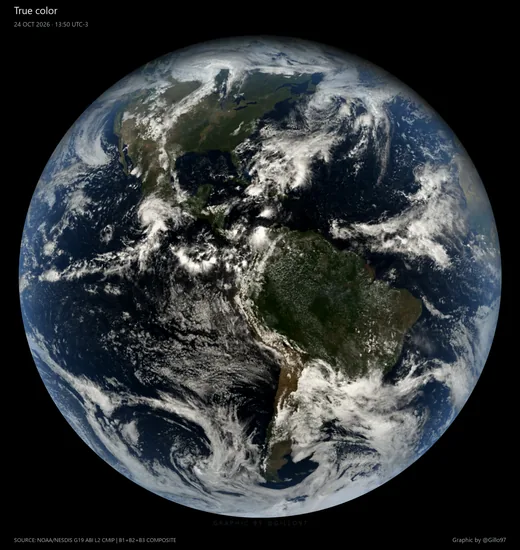
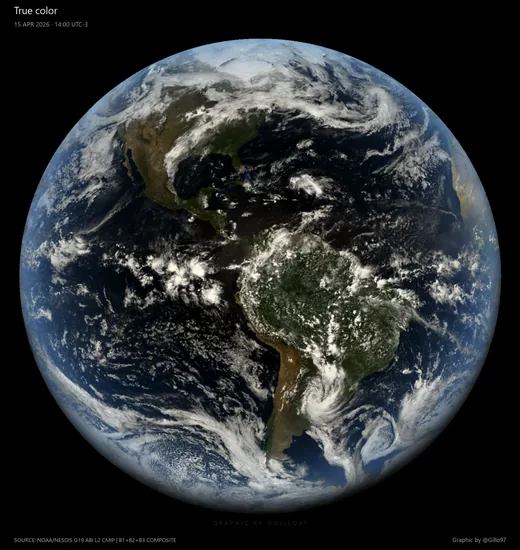
feat: expose the full captured limb in the true-color poster
radio_visible() cortaba el disco en 73.3 grados cuando el limite visible real del geoestacionario esta en 81.3: quedaba afuera 6.1 por ciento del area. Se agrega el parametro limbo con 'completo' (--recorte 1.0) por defecto y 'recortado' para el comportamiento anterior.

Se regenera la muestra WebP del producto con el disco completo.

diff --git a/app/api/catalog.py b/app/api/catalog.py
@@ -114,6 +114,17 @@ PRODUCTS: list[Product] = [
                 ],
                 help="el disco nativo es la perspectiva geoestacionaria real, sin perder el limbo",
             ),
+            ParamSpec(
+                name="limbo",
+                label="Limbo",
+                kind="select",
+                default="completo",
+                options=[
+                    ParamOption(value="completo", label="Completo: todo el disco captado"),
+                    ParamOption(value="recortado", label="Recortado: sin la franja estirada"),
+                ],
+                help="el script recorta por defecto hasta 73.3 grados; el limite real del satelite es 81.3",
+            ),
             ParamSpec(name="ventana", label="Ventana temporal", kind="date-range", default=_rango()),
             ParamSpec(name="resolucion", label="Resolucion", kind="select", default="2000", options=_RESOLUCIONES),
             ParamSpec(

diff --git a/app/tools/previews.py b/app/tools/previews.py
@@ -24,7 +24,7 @@ CALIDAD = 82
 # Render de referencia por producto. `None` = no hay muestra disponible.
 FUENTES: dict[str, Path | None] = {
     "goes_c13": CACHE / "625bac70faf5" / "frames" / "cuadro_001.png",
-    "goes_truecolor": CACHE / "b4a59b896798" / "truecolor_2026-10-24T1650.png",
+    "goes_truecolor": CACHE / "d2b759e57810" / "truecolor_2026-04-15T1700.png",
     "mur_sst": SALIDAS / "frames_mur_globo_2025-01-01T0000_94f_2711px" / "cuadro_001.png",
     "mur_realista": CACHE / "70d167e92153" / "mur_realista_1400px.png",
     "precipitacion_ecmwf": CACHE / "4af5f2bccc3b" / "poster_precip_ecmwf_2026-10-31_00z_fh012.png",

diff --git a/app/api/recipes.py b/app/api/recipes.py
@@ -573,6 +573,10 @@ def _goes_truecolor(params: dict[str, Any], work: Path) -> Plan:
         # regional. El default del script es (-71, -10), que corta los bordes.
         lon_sub = _LON_SUBSAT.get(sat.upper(), -75.2)
         centro = ["--centro", f"{lon_sub:g}", "0"]
+        if str(params.get("limbo", "completo")) == "completo":
+            # Sin esto el script corta en 73.3 grados y deja afuera el 6 %
+            # del disco: el limite visible real del satelite esta en 81.3.
+            centro += ["--recorte", "1.0"]
         if animar and n > 1:
             render_step = Step(
                 kind="render",

diff --git a/app/api/jobs.py b/app/api/jobs.py
@@ -39,7 +39,7 @@ TERMINALES = ("done", "error", "cancelled")
 
 # Subir esto invalida la cache: la firma tiene que representar la receta entera,
 # incluido como se dibuja (paleta, fondo, capas), no solo los parametros.
-RECETA_VERSION = 4
+RECETA_VERSION = 5
 
 # Reparto del progreso entre etapas. La descarga y el render son lo que pesa.
 _PESO = {"download": 0.4, "render": 0.5, "animate": 0.1}
@@ -534,3 +534,4 @@ class JobManager:
         if job.cancelar.is_set():
             raise asyncio.CancelledError
         return codigo
+

diff --git a/app/README.md b/app/README.md
@@ -152,6 +152,26 @@ estilo, se vuelve a correr:
 app\.venv\Scripts\python.exe app\tools\previews.py
 ```
 
+### El limbo del color real: está recortado por diseño
+
+`radio_visible()` en `prototipos/poster_goes_realista.py` corta el disco en
+`LIMBO_DEG = 73.3°` de ángulo central, mientras que el límite visible real de un
+satélite geoestacionario está en `acos(R/(R+h)) = 81.3°`. Consecuencia: se
+descarta el **6.1 % del área del disco** (el anillo exterior) y el resto queda
+ampliado ~3 %.
+
+El corte existe porque esa franja es donde el remuestreo estira los píxeles. La
+app lo expone como `limbo`:
+
+| Valor | Qué hace |
+| --- | --- |
+| `completo` (default) | `--recorte 1.0`: todo el disco captado, hasta 81.3° |
+| `recortado` | deja el default del script, sin la franja estirada |
+
+Ninguna de las dos es la captura cruda: ambas reproyectan a Orthographic. Para
+**cero reproyección** está `encuadre = disco nativo` (`poster_goes_disco.py`),
+que usa la perspectiva geoestacionaria tal como sale del ABI.
+
 ### Vista y centro
 
 | Producto | Encuadre | Centro |
